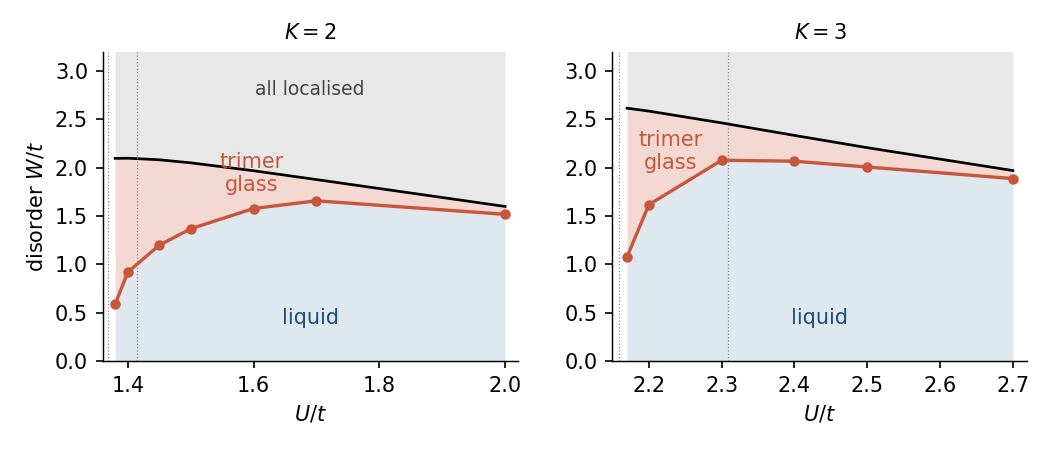
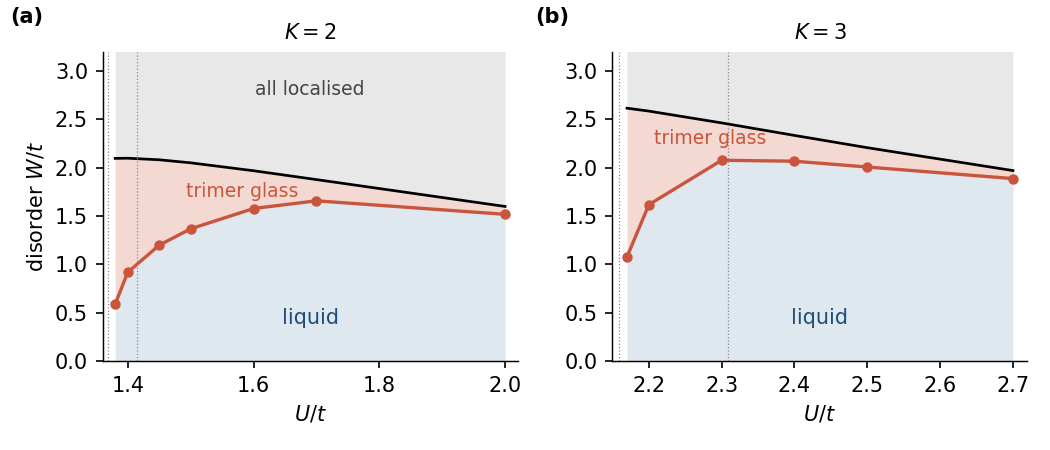
paper: fig. 7 panel labels, glass labels inside the glass region

diff --git a/paper/fig5.py b/paper/fig5.py
@@ -22,8 +22,8 @@ for ax, K in zip(axes, (2, 3)):
     for s in ("top", "right"): ax.spines[s].set_visible(False)
 axes[0].set_ylabel("disorder $W/t$")
 axes[0].text(0.5, 0.12, "liquid", transform=axes[0].transAxes, fontsize=10, color=B, ha="center")
-axes[0].text(0.36, 0.55, "trimer\nglass", transform=axes[0].transAxes, fontsize=10, color=R, ha="center")
+axes[0].text(0.20, 0.53, "trimer glass", transform=axes[0].transAxes, fontsize=9, color=R, ha="left")
 axes[0].text(0.5, 0.86, "all localised", transform=axes[0].transAxes, fontsize=9, color="#444444", ha="center")
 axes[1].text(0.5, 0.12, "liquid", transform=axes[1].transAxes, fontsize=10, color=B, ha="center")
-axes[1].text(0.14, 0.62, "trimer\nglass", transform=axes[1].transAxes, fontsize=10, color=R, ha="center")
-fig.tight_layout(w_pad=2.0); fig.savefig("fig5.pdf"); fig.savefig("fig5.png", dpi=150)
+axes[1].text(0.10, 0.70, "trimer glass", transform=axes[1].transAxes, fontsize=9, color=R, ha="left")
+fig.tight_layout(w_pad=2.0); fig.text(0.01, 0.95, "(a)", fontsize=10, fontweight="bold"); fig.text(0.51, 0.95, "(b)", fontsize=10, fontweight="bold"); fig.savefig("fig5.pdf"); fig.savefig("fig5.png", dpi=150)

diff --git a/paper/main.tex b/paper/main.tex
@@ -742,7 +742,7 @@ bounds in that respect.
 \begin{figure*}[t]
 \includegraphics[width=\textwidth]{fig5.pdf}
 \caption{Phase diagram of the Fermi liquid of trimers in the plane of
-attraction $U$ and box disorder $W$, for $K=2$ and $3$, over the range
+attraction $U$ and box disorder $W$, for (a) $K=2$ and (b) $K=3$, over the range
 of $U$ in which the liquid exists below a finite density
 $n_{1}(U)$. Liquid: the occupied trimer states above the Lifshitz tail
 are system-wide. Trimer glass: every occupied state of the liquid is
